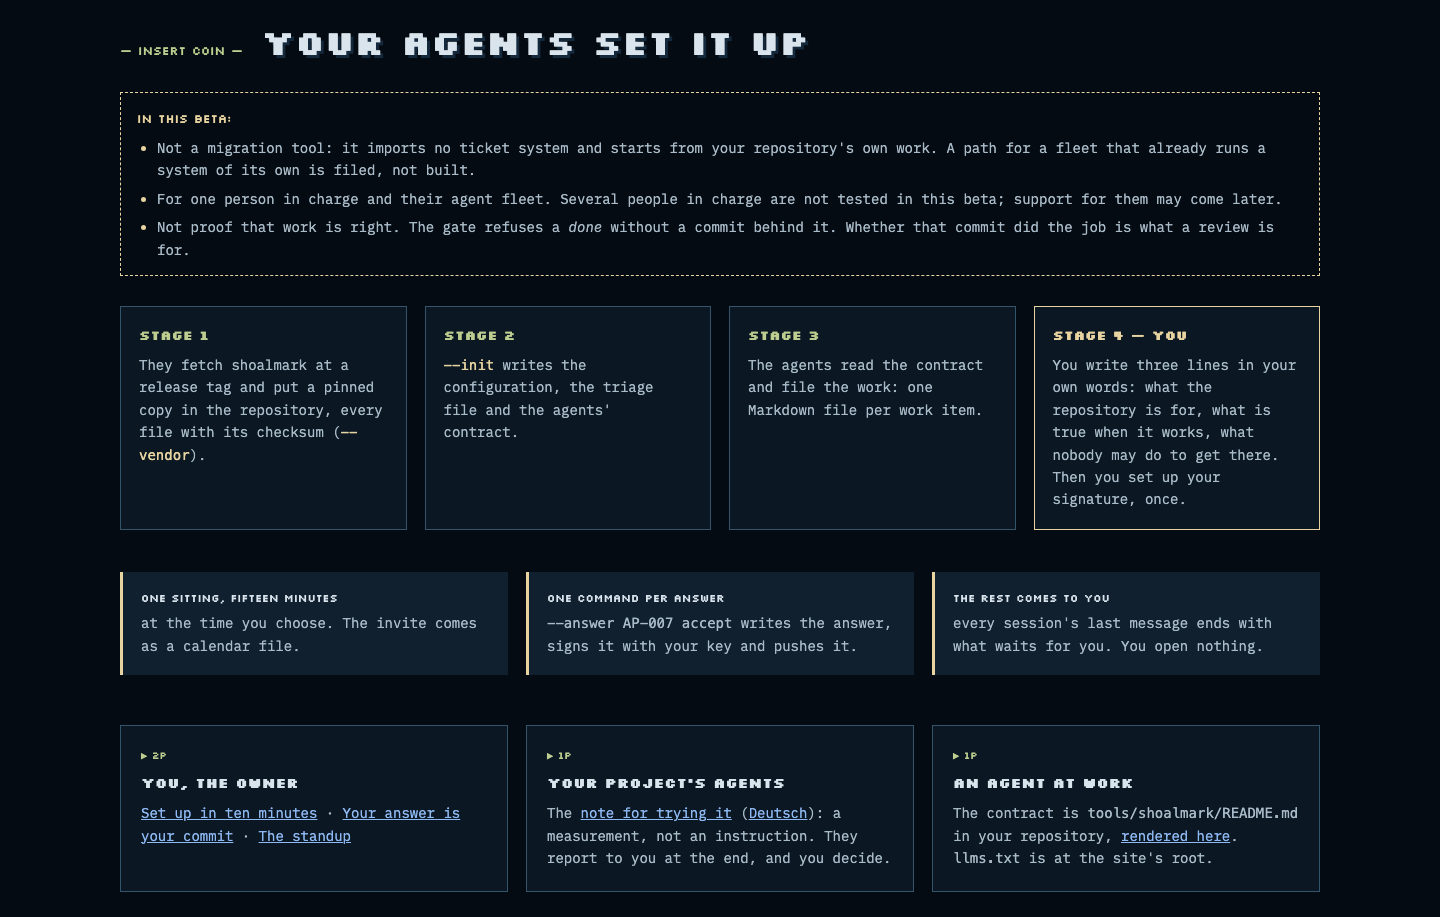
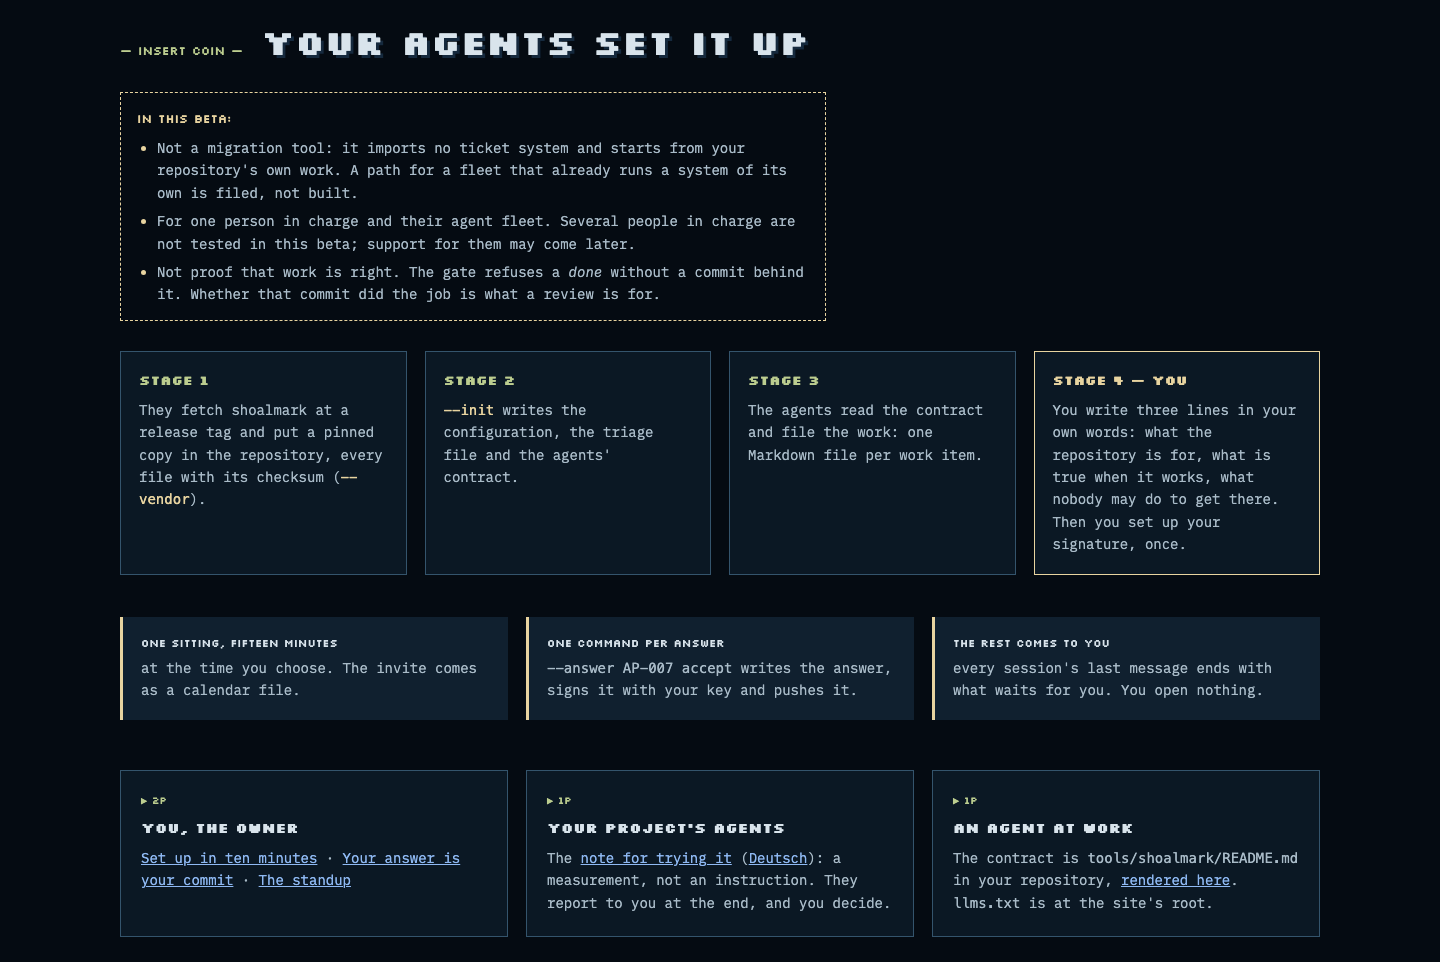
FM-006: In this beta — the box's text capped at about 80 characters on desktop
The Owner approved the start section's render and made a cosmetic suggestion, filed in FM-006's release section (20fa38b): on
desktop the box's text is capped at about 80 characters wide, to read faster. The box's list takes max-width 80ch and the box
fits its content, so at 1440 a line runs to 78 characters at most, where it ran to 134, and the dashed border frames the text.
At 390, 360 and 768 the box still takes the available width, and 390's line breaks are as before. Marked with a Jinja comment.

start-1440.png is re-rendered from this commit's build, at 1440 × 962. start-390.png, the first screens and preview.png are the
same byte for byte, so none of them is committed. The render README names the commit of each.

Session: b3bdb000/designer-72
Worktree: shoalmark-design
Model: claude-opus-5-5
Effort: max

diff --git a/overrides/landing.html b/overrides/landing.html
@@ -210,7 +210,7 @@ section.band{padding-block:72px 40px}
 .peek figcaption{margin-top:8px;font-size:12px;color:var(--mute)}
 .loses{padding:14px 16px;border:1px dashed var(--land);color:var(--dim);font-size:14px}
 .loses b{font-family:var(--pix);font-weight:400;font-size:12px;color:var(--land);text-transform:uppercase;margin-right:8px}
-.beta{margin:0 0 30px}.beta ul{margin:8px 0 0;padding-left:20px;display:grid;gap:6px}.beta li::marker{color:var(--land)}{# FM-006 v0.19.0, In this beta: the start section's three lines, set in the 2P card's You lose nothing box (.loses), its label and its dashed border #}
+.beta{margin:0 0 30px;width:fit-content}.beta ul{margin:8px 0 0;padding-left:20px;display:grid;gap:6px;max-width:80ch}.beta li::marker{color:var(--land)}{# FM-006 v0.19.0, In this beta: the start section's three lines, set in the 2P card's You lose nothing box (.loses), its label and its dashed border #}{# FM-006 v0.19.0, In this beta: on desktop the box's text capped at about 80 characters (80ch on its list) and the box fitted to it, to read faster — the Owner's cosmetic suggestion, filed in FM-006's release section (20fa38b); narrower windows unchanged #}
 
 /* high scores */
 .scores{display:grid;grid-template-columns:minmax(0,1.25fr) minmax(0,1fr);gap:28px;align-items:start}

diff --git a/work-tracker/evidence/FM-006/first-screen-v0-19-0/README.md b/work-tracker/evidence/FM-006/first-screen-v0-19-0/README.md
@@ -1,11 +1,11 @@
 # What a stranger meets first — the landing's render for v0.19.0 (FM-006)
 
-**Rendered** from release builds (Zensical 0.0.66, tinycss2 1.4.0; `zensical build --clean`, `llms_txt.py`, `check_site.py`):
-`start-390.png` and `start-1440.png` from this README's commit (In this beta); `phone-360-first.png` and `phone-390-first.png`
-from `affd09f` (RV-2189); the rest and `docs/assets/preview.png` from `ac63619`. At this commit the first screens and the
-preview are the same byte for byte; the full pages predate RV-2186's line, RV-2189's HUD and the beta box. Round one: `36cde21`.
-**Made with** `node render.mjs SITE OUT [PREVIEW]` (this folder): Chrome 154.0.8037.58 headless, Node 26.7.0, 127.0.0.1 only,
-dark, scale 1, 3 s after load, motion allowed; 2026-10-01, 09:07, 09:29 and 10:03 CEST.
+**Rendered** from release builds (Zensical 0.0.66, tinycss2 1.4.0, the docs workflow's steps): `start-1440.png` from this
+README's commit (its text capped at about 80 characters), `start-390.png` from `b2683f2` (In this beta); `phone-360-first.png`
+and `phone-390-first.png` from `affd09f` (RV-2189); the rest and `docs/assets/preview.png` from `ac63619`. At this commit the
+first screens and the preview are the same byte for byte; the full pages predate RV-2186's line, RV-2189's HUD and the beta box.
+Round one: `36cde21`. **Made with** `node render.mjs SITE OUT [PREVIEW]` (this folder): Chrome 154.0.8037.58 headless, Node
+26.7.0, 127.0.0.1 only, dark, scale 1, 3 s after load, motion allowed; 2026-10-01, 09:07–10:15 CEST.
 
 | File | Width × height | What it shows |
 |---|---|---|
@@ -15,7 +15,7 @@ dark, scale 1, 3 s after load, motion allowed; 2026-10-01, 09:07, 09:29 and 10:0
 | `desktop-1440-first.png` | 1440 × 900 | the chart in the first screen (56–876 px), the title over the sea: the H1 in two lines, broken at its semicolon; the job line; the action (449–486 px) |
 | `desktop-1440-full.png` | 1440 × 6393 | the page, *The fleet* at 1332–1927 px; the agents' card headed *For agents* |
 | `docs/assets/preview.png` | 1200 × 630 | the link preview: the chart's north-west at the page's scale, 4 CSS px to a chart pixel, rendered at 1280 px under reduced motion; the title's texts hidden, the wordmark alone, no HUD; the wreck labels kept and no wreck selected |
-| `start-390.png`, `start-1440.png` | 390 × 2308, 1440 × 917 | the start section alone, its heading through its last line: *In this beta:* and its three lines where the FM-026 line stood, then the stages, the costs and the coins |
+| `start-390.png`, `start-1440.png` | 390 × 2308, 1440 × 962 | the start section alone, its heading through its last line: *In this beta:* and its three lines where the FM-026 line stood, then the stages, the costs and the coins; at 1440 the box fitted to its text, about 80 characters a line |
 
 **Placements.** The fleet is the first section after the chart and its console; *The fleet* heads it alone. The three anchors
 left the page; the HUD's nav keeps their destinations at 981 px and wider. First-screen links: at 390 the HUD's *shoalmark* and
